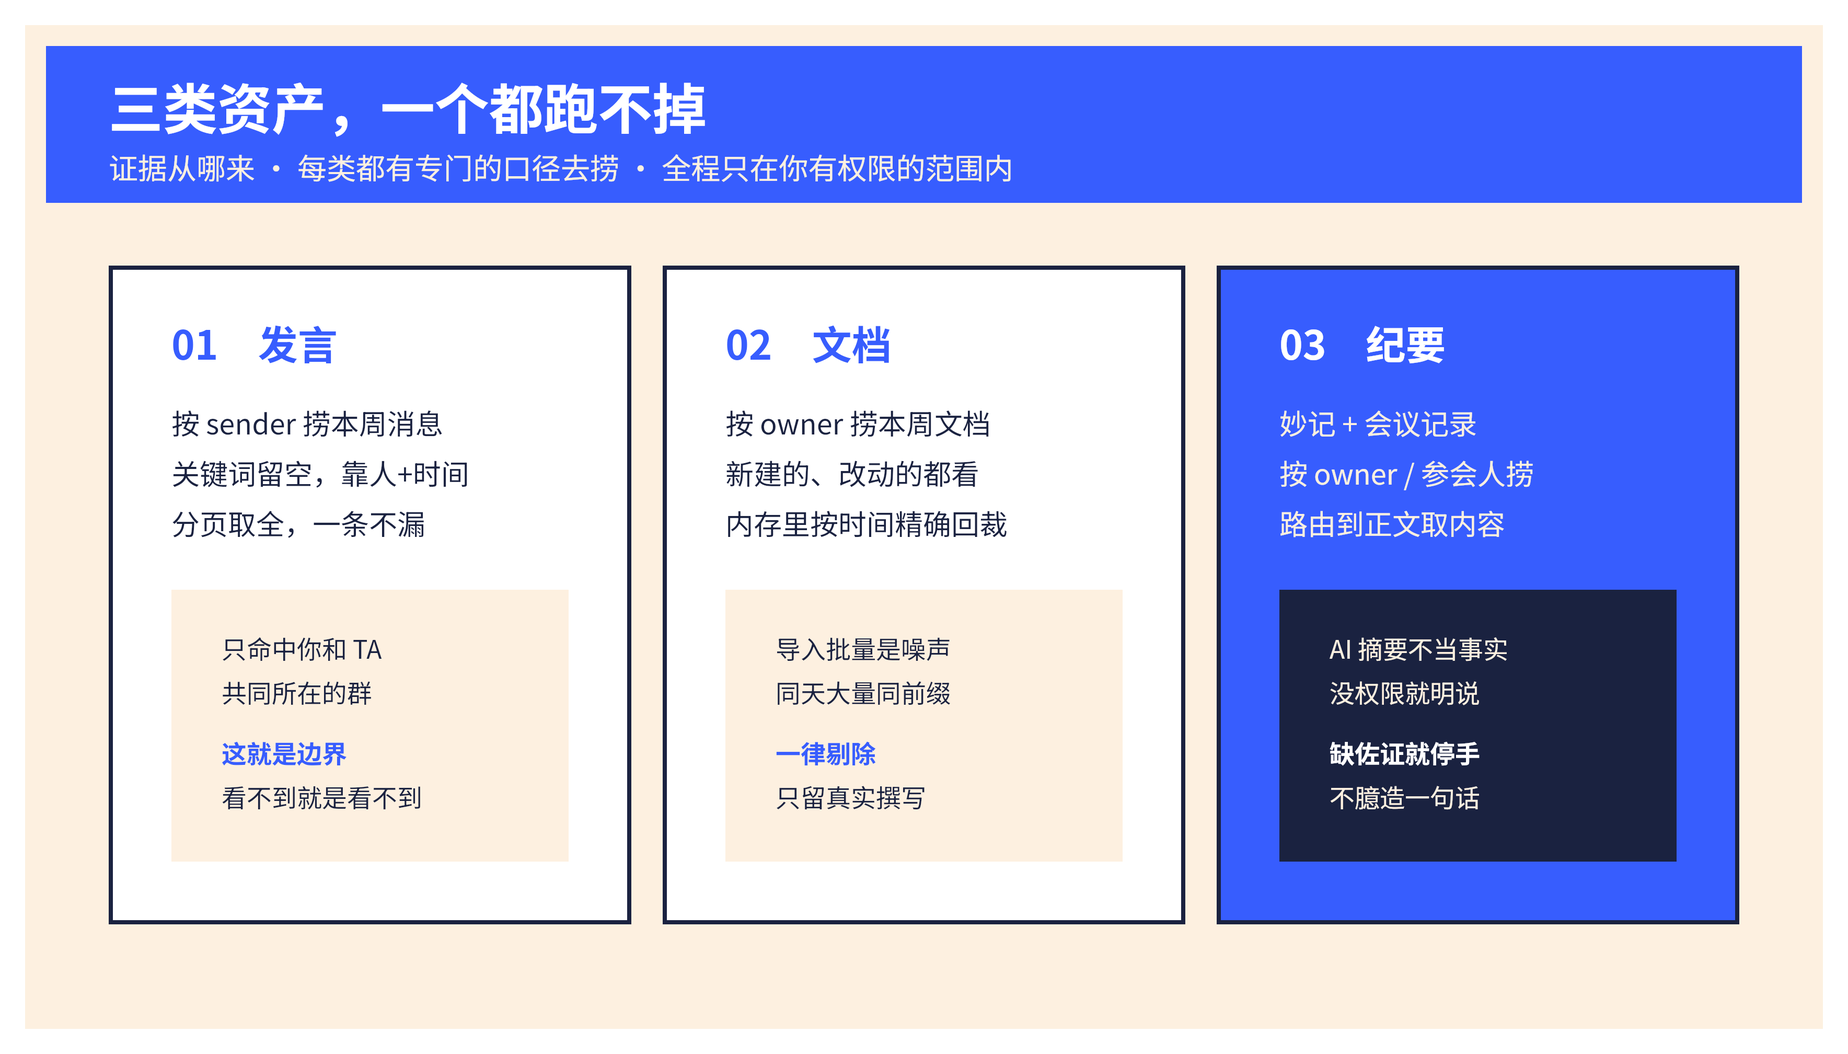
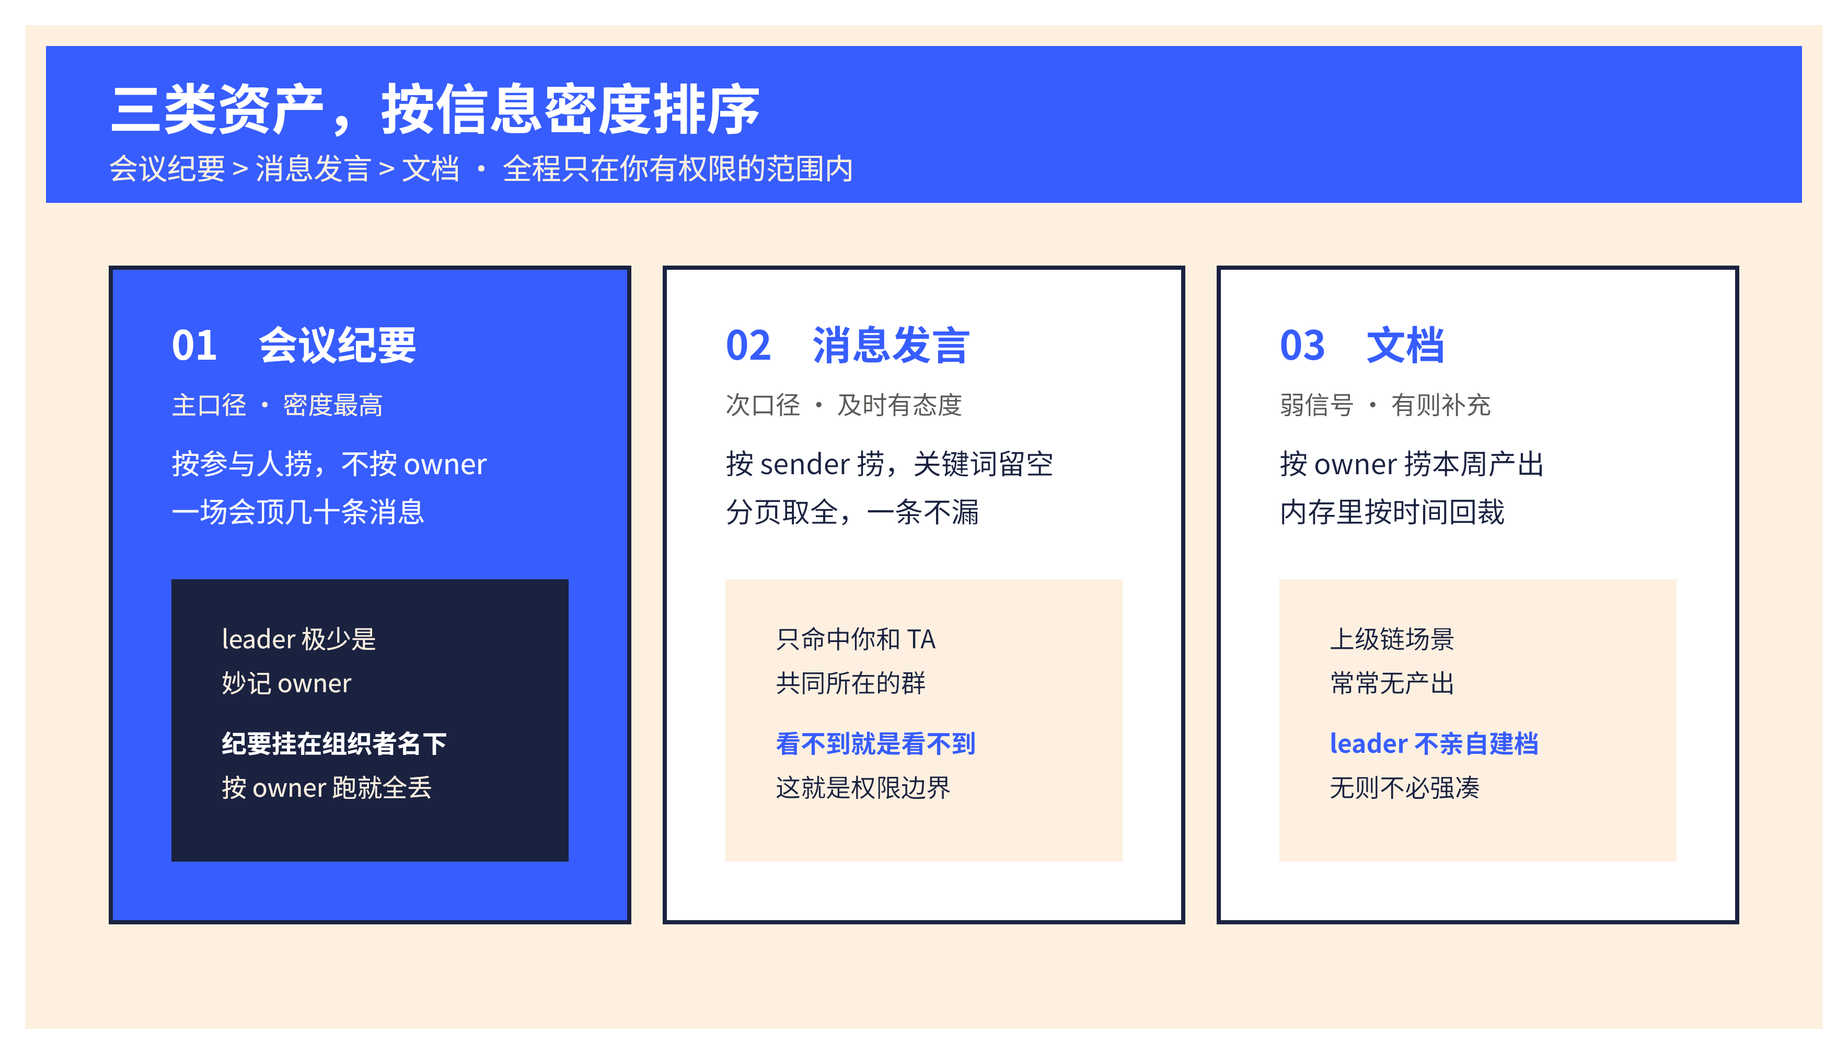
迭代 v2：修正采集口径与优先级（纪要 participant 主口径>消息>文档），修 data.items/data.messages 字段名与纯文本 content，新增上层零星信号合并段，重画证据画板

diff --git a/references/collection.md b/references/collection.md
@@ -5,16 +5,50 @@
 
 窗口来自 `state.py window`，形如 `{"start": "...+08:00", "end": "...+08:00"}`。
 
+## 采集与呈现优先级（重要）
+
+按**信息密度**排序，纪要最高、文档最低：
+
+1. **会议纪要 / 智能纪要 / 逐字记录** —— 结论密度最高，一场会顶几十条零散消息。
+2. **消息发言** —— 及时、有态度，但零散、需要聚合。
+3. **文档** —— 对「向上级链」场景**基本失效**（见下），有则锦上添花，无则不必强凑。
+
+周报成稿也按这个顺序：先讲会上说了什么，再讲群里说了什么，文档作为补充。
+
 ## 目录
-1. 发言（IM 消息）
-2. 文档（drive）
-3. 会议纪要 / 妙记（minutes + vc）
+1. 会议纪要 / 妙记（minutes + vc）— 主口径
+2. 发言（IM 消息）
+3. 文档（drive）— 弱信号
 4. 去重与指纹
 5. 解析陷阱清单
 
 ---
 
-## 1. 发言（IM 消息）
+## 1. 会议纪要 / 妙记（minutes + vc）— 主口径
+
+**关键口径修正：leader 极少是妙记 owner。** 纪要通常挂在会议组织者或秘书名下，而不是你的 leader。
+因此**必须以 `--participant-ids`（参与人）为主口径**，`--owner-ids`（owner）几乎全空。按 owner 跑，纪要这一类会整体丢掉。
+
+```bash
+# 主口径：该 leader 作为参与人的妙记（这才有货）
+lark-cli minutes +search --as user \
+  --participant-ids ou_LEADER \
+  --start 2026-08-18 --end 2026-08-24 --format json
+
+# 会议记录：该 leader 参与的会议（同样以 participant 为主）
+lark-cli vc +search --as user \
+  --participant-ids ou_LEADER \
+  --start "2026-08-18T00:00:00+08:00" --end 2026-08-24 --format json
+# --organizer-ids 只作补充，多数 leader 不亲自当组织者
+```
+
+- 结果在 **`data.items`**（不是 `results`/`messages`），每项含 `token` / `display_info` / `meta_data`。
+- `display_info` 是一整块 HTML 转义富文本（无独立标题/开始时间）：取首行、去标签；开始时间从 `meta_data.description` 里取。
+- 从 `vc +search` 拿到 top 会议后，用 `vc +detail` 找到纪要入口，按 `note_id` / `minute_token` 路由到 `lark-note` / `lark-minutes` 取正文。
+- 证据语言纪律：没有纪要查看权限就明确标注（如"未参会 / 无纪要查看权限"），**不要把 AI 会议摘要当作事实**，缺一手佐证时停止下钻。
+- 需要 scope：`minutes:minutes.search:read`、`vc:meeting.search:read`、`vc:note:read`（已具备）。
+
+## 2. 发言（IM 消息）
 
 按 sender 过滤 leader 的发言，**`--query` 必须留空**——放"总结/发言/看看"之类词会过度约束、漏消息。靠 sender + 时间召回。
 
@@ -25,57 +59,37 @@ lark-cli im +messages-search --as user \
   --page-size 50 --page-all --format json --no-reactions
 ```
 
-- 必须分页取全（`--page-all`），一页不够做周报。
+- 结果在 **`data.messages`**（不是 `data.items`）。分页取全（`--page-all`），一页不够做周报。
+- **`content` 已是纯文本字符串，不要再 `json.loads`。** 直接用即可：
+  - `text` → 纯文本；`post` → 文本含 `![Image](img_...)` 标记；`sticker` → `[Sticker]`；
+  - `image` → `[Image: img_...]`；`file` → `<file key="..." name="xxx.pptx"/>`；`share_calendar_event` → `<calendar_share .../>`。
+  - 按文档旧写法做二次 json 解析，会把 194 条全变成 `[unparsed]`——这是最容易踩的坑。
 - 每条保留 `chat_name`、`sender.name`、`create_time`、`message_id` 作为证据。
-- 只会命中你和该 leader 共同所在的群/私聊——这是正确的权限边界。
+- 只会命中你和该 leader 共同所在的群/私聊——这是正确的权限边界，也意味着**共同群越少、可见面越小**（见文末密度判断）。
 - 需要 scope：`search:message`（已具备）。
 
-## 2. 文档（drive）
-
-按 owner/creator 过滤 leader 本周新建或改动的文档：
+## 3. 文档（drive）— 弱信号
 
 ```bash
-# 本周新建（窗口内）
 lark-cli drive +search --as user --creator-ids ou_LEADER \
   --doc-types doc,docx,sheet,bitable,wiki,file --sort create_time \
   --created-since 2026-08-18 --created-until 2026-08-24 \
   --page-size 20 --format json
 ```
 
-- 结果字段在 `data.results[].result_meta`（`.title` / `.token` / `.create_time_iso` / `.owner_name`），
-  顶层字段常为 null；`data.total` 忽略日期过滤，**必须翻页后在内存里按 `create_time` 精确回裁到窗口**。
-- 日期过滤按自然日召回，边界要自己再收紧。
-- 剔除导入批量噪声：同一天大量、标题统一前缀的多为导入批次，不是真实撰写。
-- 需要 scope：`search:docs`（已具备）。可选跑第二遍 `--sort edit_time` 召回"本周改动的旧文档"。
-
-## 3. 会议纪要 / 妙记（minutes + vc）
-
-```bash
-# 妙记：该 leader owner 或参与的
-lark-cli minutes +search --as user \
-  --owner-ids ou_LEADER \
-  --start 2026-08-18 --end 2026-08-24 --format json
-# 也可加 --participant-ids ou_LEADER
-
-# 会议记录：该 leader 主持或参与
-lark-cli vc +search --as user \
-  --organizer-ids ou_LEADER \
-  --start "2026-08-18T00:00:00+08:00" --end 2026-08-24 --format json
-# 也可加 --participant-ids ou_LEADER
-```
-
-- `minutes +search` 的 `display_info` 是一整块 HTML 转义富文本（无独立标题/开始时间）：取首行、去标签；开始时间从 `meta_data.description` 里取。
-- 从 `vc +search` 拿到 top 会议后，用 `vc +detail` 找到纪要入口，按 `note_id` / `minute_token` 路由到 `lark-note` / `lark-minutes` 取正文。
-- 证据语言纪律：没有纪要查看权限就明确标注（如"未参会 / 无纪要查看权限"），**不要把 AI 会议摘要当作事实**，缺一手佐证时停止下钻。
-- 需要 scope：`minutes:minutes.search:read`、`vc:meeting.search:read`、`vc:note:read`（已具备）。
+- **对上级链场景基本失效**：你的 leader 层不亲自建文档，产出多挂在他人或机器人名下（如双周会文档由机器人代建）。四人合计常常只有个位数、且非本人所写。
+- 因此文档只作**补充信号**：有真实本人撰写的就带上，没有就跳过，**不要为凑「三类资产」而强行呈现**。
+- 结果字段在 `data.results[].result_meta`（`.title` / `.token` / `.create_time_iso` / `.owner_name`），顶层字段常为 null；`data.total` 忽略日期过滤，**必须翻页后在内存里按 `create_time` 精确回裁到窗口**。
+- 剔除导入批量噪声与机器人代建：同一天大量、统一前缀、owner 为机器人的，不算 leader 的真实产出。
+- 需要 scope：`search:docs`（已具备）。
 
 ## 4. 去重与指纹
 
 跨周不重复上报同一条内容：对每条候选算指纹，只保留新的。
 
 ```bash
-# 对一条消息内容算指纹（source 用 im/doc/minute）
-printf '%s' "$content" | python3 scripts/state.py fingerprint --source im
+# 对一条内容算指纹（source 用 minute/im/doc）
+printf '%s' "$content" | python3 scripts/state.py fingerprint --source minute
 
 # 把本周所有候选指纹喂给 seen，只回未上报过的
 cat fingerprints.txt | python3 scripts/state.py seen
@@ -84,12 +98,23 @@ cat fingerprints.txt | python3 scripts/state.py seen
 cat fingerprints.txt | python3 scripts/state.py mark-success --at "<end-of-window RFC3339>"
 ```
 
-指纹用内容本身（消息文本 / 文档 token+标题 / minute_token）作为输入，state 只存 `source:sha256`，不存原文。
+指纹用内容本身（minute_token / 消息文本 / 文档 token+标题）作为输入，state 只存 `source:sha256`，不存原文。
 
 ## 5. 解析陷阱清单
 
 - `--as user` 全程一致；混入 bot 身份会因 open_id 跨应用报 `99992361 open_id cross app`。
-- `im +messages-search` 分页不取全 = 周报不完整。
-- `drive +search` 认 `result_meta`，别读顶层；`data.total` 不可信。
-- `minutes +search` 的 `display_info` 是转义 HTML，需去标签取首行。
+- **纪要按 `--participant-ids` 而非 `--owner-ids`**：owner 几乎全空，参与人才有货。
+- **`minutes +search` 结果在 `data.items`**；`im +messages-search` 结果在 `data.messages`。别记混。
+- **IM `content` 已是纯文本，不要二次 `json.loads`**，否则整批变 `[unparsed]`。
+- `drive +search` 认 `result_meta`，别读顶层；`data.total` 不可信；上级链场景文档普遍无产出。
 - 空结果是合法结果：某 leader 本周无可见动态，就在周报里如实标注"本周无可见公开动态"，不臆造。
+
+## 关于信号密度（供成稿判断）
+
+**越往上，信号越接近噪声——不是 leader 不活跃，是你和他们的共同群太少，权限边界决定了可见面。**
+
+- 与你业务交集大的上层（通常是 +1，或个别深度协作的 +2）：信号密度高，值得独立成段、完整幕僚四段。
+- 交集小的更上层（+2/+3/+4）：可能全周只有几条、且集中在同一场沟通。这时**不要硬凑周报**：
+  - 定期跑时，这些层可**降频**（如每月一次）或**合并成一段「上层零星信号」**，一句话带过，附来源即可。
+  - 若某层全周 0 条可见内容，如实标注，不臆造、不用文档凑数。
+- 成稿判断规则：单个 leader 本周可见证据 < 3 条且来源单一时，降级为「零星信号」并入合并段，不单独成段。

diff --git a/SKILL.md b/SKILL.md
@@ -1,7 +1,7 @@
 ---
 name: boss-reports-to-me
 description: |
-  「老板向我汇报」——把组织架构上你的各层直属 leader，反过来向你汇报本周动态。每周五（可调）沿 roster 收集每位 leader 在本周内、你有权限可见的飞书发言、撰写文档、会议智能纪要/妙记，按人名分段结构化成含「总结·观点·原文·下一步」的周报，通过飞书消息推送给你本人。用户说「老板向我汇报」「让我的老板给我汇报」「本周我领导在忙什么/关注什么」「上级动态周报」「leader 周报」「boss reports to me」，或要设置/查看/停用这类每周汇报时使用。仅限本人自愿自读、只用本人已有权限内容，不做他人画像/绩效判断，不用于监控。
+  「老板向我汇报」——把组织架构上你的各层直属 leader，反过来向你汇报本周动态。每周五（可调）沿 roster 收集每位 leader 在本周内、你有权限可见的会议智能纪要/妙记、消息发言、撰写文档（按信息密度排序），按人名分段结构化成含「总结·观点·原文·下一步」的周报，通过飞书消息推送给你本人。用户说「老板向我汇报」「让我的老板给我汇报」「本周我领导在忙什么/关注什么」「上级动态周报」「leader 周报」「boss reports to me」，或要设置/查看/停用这类每周汇报时使用。仅限本人自愿自读、只用本人已有权限内容，不做他人画像/绩效判断，不用于监控。
 ---
 
 # 老板向我汇报 (Boss Reports To Me)
@@ -9,7 +9,7 @@ description: |
 ## 这个 skill 做什么
 
 沿组织架构收集你的各层 leader（直属上级 + 你选择覆盖的更上层）在本周内**你有权限可见**的
-飞书资产（发言 / 文档 / 会议纪要），按人名分段汇总成周报，推送给你本人。默认每周五运行。
+飞书资产（会议纪要 / 消息发言 / 文档，按信息密度排序），按人名分段汇总成周报，推送给你本人。默认每周五运行。
 
 **边界（重要）**：只用当前用户本人已有权限能看到的内容（`--as user` 天然如此）；只做「本周动态摘要」，
 不给 leader 建人物档案、不做绩效/能力判断、不用于监控。采集到的原文**不落盘、不进记忆**。
@@ -74,15 +74,20 @@ description: |
    python3 scripts/state.py window --at "$(date -Iseconds)"
    ```
 2. **取 roster**：`python3 scripts/roster.py show`。
-3. **逐人采集**：对每位 leader 收集发言 / 文档 / 纪要——命令、分页、解析陷阱见
-   **`references/collection.md`**。空结果是合法结果。
+3. **逐人采集**（按信息密度，纪要优先）：对每位 leader 收集
+   **① 会议纪要/妙记（主口径）→ ② 消息发言 → ③ 文档（弱信号，有则补充）**。
+   命令、字段名、解析陷阱见 **`references/collection.md`**。三个高频坑：
+   - 纪要用 `--participant-ids`（不是 `--owner-ids`，owner 几乎全空），结果在 `data.items`；
+   - IM 结果在 `data.messages`，`content` 已是纯文本，**不要二次 `json.loads`**；
+   - 文档对上级链常无产出，别为凑「三类」强撑。空结果是合法结果。
 4. **去重**：对候选内容算指纹并过滤已上报过的：
    ```bash
-   printf '%s' "$content" | python3 scripts/state.py fingerprint --source im   # doc / minute
+   printf '%s' "$content" | python3 scripts/state.py fingerprint --source minute   # im / doc
    cat all_fps.txt | python3 scripts/state.py seen   # 只回未上报过的
    ```
 5. **成稿**：按 **`references/output-contract.md`** 当前风格（默认幕僚四段：总结·观点·原文·下一步），
-   按人名分段，顶部一句总判断，每条原文带可点击来源+时间。相关性三重过滤。
+   原文按密度排序（纪要→消息→文档）。高交集 leader 独立成段；证据 < 3 条且来源单一的更上层
+   并入「上层零星信号」合并段。顶部一句总判断，每条带可点击来源+时间。相关性三重过滤。
 6. **发送**：取本人 open_id（`lark-cli contact +get-user --as user`），推送：
    ```bash
    lark-cli im +messages-send --as user --user-id ou_SELF --markdown "<周报>"

diff --git a/README.md b/README.md
@@ -16,7 +16,7 @@
 
 汇报关系是单向的谎言。你每周对上汇报，却对上面在想什么一无所知——直到某个决定砸到你头上，你才后知后觉。信息不对称不是因为老板藏着掖着，是因为**你没有时间去逐个翻他们的飞书**。
 
-这个 skill 把箭头调转过来。它沿着组织架构向上，把你的直属上级、上级的上级、一路到 +4 层，本周在飞书里**你本就有权限看到**的发言、文档、会议纪要，收集、去噪、成文，每周五主动推到你面前。你不再追动态，动态自己走过来。
+这个 skill 把箭头调转过来。它沿着组织架构向上，把你的直属上级、上级的上级、一路到 +4 层，本周在飞书里**你本就有权限看到**的会议纪要、消息发言、文档，收集、去噪、成文，每周五主动推到你面前。你不再追动态，动态自己走过来。
 
 <p align="center">
   <img src="assets/overview.png" alt="老板向我汇报：沿组织架构向上取各层 leader，收集发言、文档、纪要三类资产" />
@@ -30,19 +30,23 @@
 
 这个 skill 不是又一个信息聚合器。它是**你的参谋**：先替你读完，再告诉你结论、依据、以及你该动哪根弦。
 
-## 三类资产，一个都跑不掉
+## 三类资产，按信息密度排序
 
 证据只从一个地方来——**你本就有权限看到的飞书内容**。全程以用户身份（`--as user`）搜索，搜索结果天然只返回你有权访问的范围。这既是能力，也是不可逾越的隐私边界。
 
+三类资产的价值并不对等，周报按**信息密度**排序——**会议纪要 > 消息发言 > 文档**：
+
 <p align="center">
-  <img src="assets/evidence-map.png" alt="三类资产采集口径：发言按 sender、文档按 owner、纪要按 owner/参会人，全程只在有权限范围内" />
+  <img src="assets/evidence-map.png" alt="三类资产按密度排序：会议纪要主口径按参与人、消息按 sender、文档为弱信号，全程只在有权限范围内" />
 </p>
 
-| 资产 | 口径 | 关键纪律 |
-|---|---|---|
-| **发言** | 按 sender 捞本周消息，关键词留空、靠人+时间召回、分页取全 | 只命中你和 TA 共同所在的群；看不到就是看不到 |
-| **文档** | 按 owner 捞本周新建/改动，内存里按时间精确回裁 | 剔除导入批量噪声，只留真实撰写 |
-| **纪要** | 妙记 + 会议记录，按 owner/参会人捞，路由到正文取内容 | AI 摘要不当事实，缺一手佐证就停手 |
+| 资产 | 优先级 | 口径 | 关键纪律 |
+|---|---|---|---|
+| **会议纪要** | 主口径 | 妙记 + 会议记录，**按参与人（participant）捞**，路由到正文取内容 | leader 极少是 owner，纪要多挂在组织者/秘书名下；AI 摘要不当事实 |
+| **消息发言** | 次口径 | 按 sender 捞本周消息，关键词留空、靠人+时间召回、分页取全 | 只命中你和 TA 共同所在的群；看不到就是看不到 |
+| **文档** | 弱信号 | 按 owner 捞本周新建/改动，内存里按时间精确回裁 | 上级链场景常无产出——leader 不亲自建文档，有则补充、无则不凑 |
+
+> 一句实话：越往上，共同群越少、可见面越小。这个 skill 在 +1 和与你业务交集大的上层价值最高；再往上信号稀疏时，会自动并成一段「上层零星信号」，不硬撑周报。
 
 ## 上级链：支持两种链路获取上级信息
 

diff --git a/references/output-contract.md b/references/output-contract.md
@@ -10,31 +10,38 @@
 
 > 本周你的老板们在关注什么：<一句话总判断，抓最强的共同信号>
 
-<每人一段，见下方风格>
+<高交集 leader 独立成段，见下方风格>
+
+## 上层零星信号
+<交集小的更上层合并成一段，每人一句话+来源；见文末>
 
 ---
-覆盖：直属+3 位上层 · 数据来自你有权限可见的飞书发言/文档/纪要 · 空缺已标注
+覆盖：直属+N 位上层 · 数据来自你有权限可见的会议纪要/发言/文档 · 空缺已标注
 ```
 
 规则：
+- **证据与呈现按密度排序：会议纪要 > 消息发言 > 文档**（文档对上级链常无产出，有则补充、无则不凑）。
 - 无可见动态的 leader 保留分段，写「本周无可见公开动态」，不臆造。
-- 每条**原文**都带可点击来源 `[来源](url)` + 时间；文档给标题+链接。
+- 每条**原文**都带可点击来源 `[来源](url)` + 时间；纪要给会议名，消息给群名，文档给标题+链接。
 - 观点/总结基于原文，不外推；拿不准就降级为「信号偏弱，供参考」。
 - 相关性三重过滤：与你的工作/OKR 相关 > 决策或方向信号 > 纯事务性；只留前两类的高价值项。
+- **密度分流**：单个 leader 本周可见证据 < 3 条且来源单一时，不单独成段，并入「上层零星信号」。
 
 ---
 
 ## 默认风格 · chief（幕僚四段）
 
 结论先行，四段固定顺序：**总结 → 观点 → 原文 → 下一步**。像参谋跟你汇报。
+原文部分按密度排序：**先会议纪要、再消息、最后文档**。
 
 ```
-### 张三（直属上级 · People CS）
+### 李硕（直属上级 · People CS）
 📌 总结：本周把 Q3 重心从交付明确转向续费。
 💡 观点：注意力从「签单」移到「留存」，下半年考核口径可能重排。
 💬 原文：
-  - "续费率下滑是下半年最大风险" — 8/21 部门周会 · [来源](url)
-  - 《Q3 续费作战》文档 · 8/22 · [链接](url)
+  - 🎙 Q3 复盘会纪要："续费率下滑是下半年最大风险" — 8/21 · [纪要](url)
+  - 💬 "先把头部客户的续费口径统一" — 8/22 项目群 · [来源](url)
+  - 📄 《Q3 续费作战》· 8/22 · [链接](url)   ← 有才带，无则省
 → 下一步：把你手上的数字人方案提前挂到续费指标上。
 ```
 
@@ -67,6 +74,22 @@
   - "续费率下滑是下半年最大风险" — 8/21 周会 · [来源](url)
 → 下一步：赶紧把你的数字人方案往续费上蹭一蹭，蹭对了就是功劳。
 ```
+
+---
+
+## 上层零星信号（合并段）
+
+交集小的更上层（+2/+3/+4）常常全周只有几条、且集中在同一场沟通。不要为他们硬撑幕僚四段——
+合并成一段，每人一句话 + 来源即可。全周 0 条则如实标注。
+
+```
+## 上层零星信号
+- 武笑天（+2）：仅 1 场客户群沟通，5 条，围绕某客户交付节奏 · [来源](url)
+- 林婵（+3）：同一场客户沟通，4 条，未见独立议题 · [来源](url)
+- 其余上层：本周无你可见的公开动态。
+```
+
+判断规则：单个 leader 本周可见证据 < 3 条且来源单一 → 进本段；定期跑时这些层可降频（如每月一次）。
 
 ---
 
